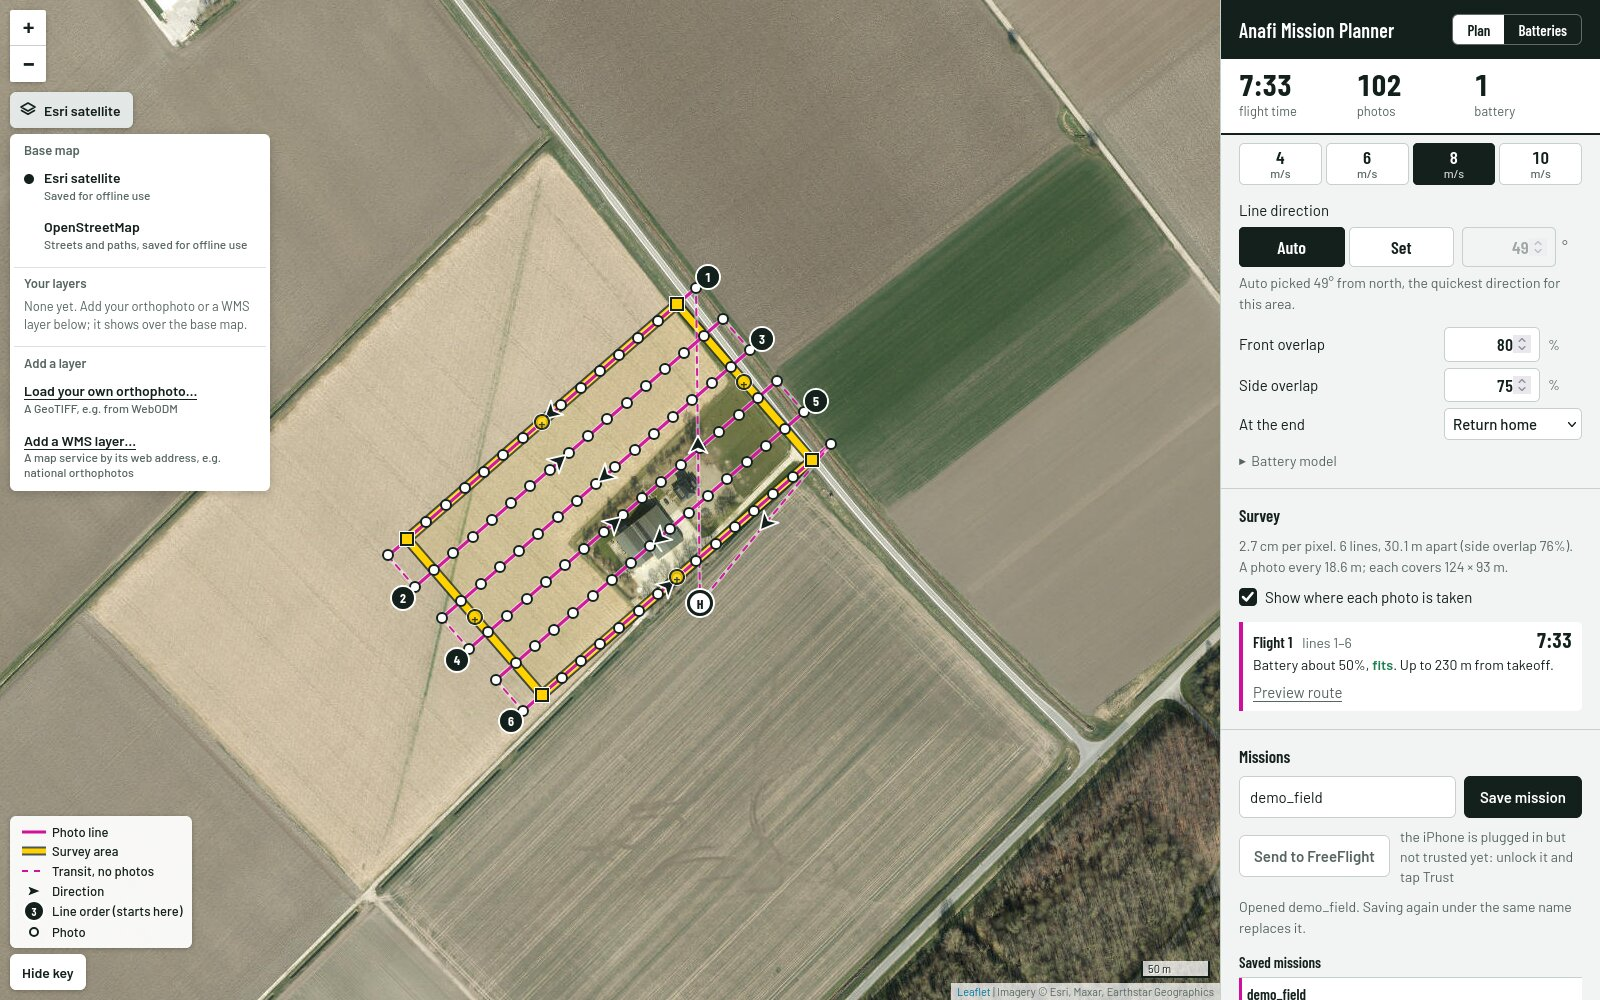
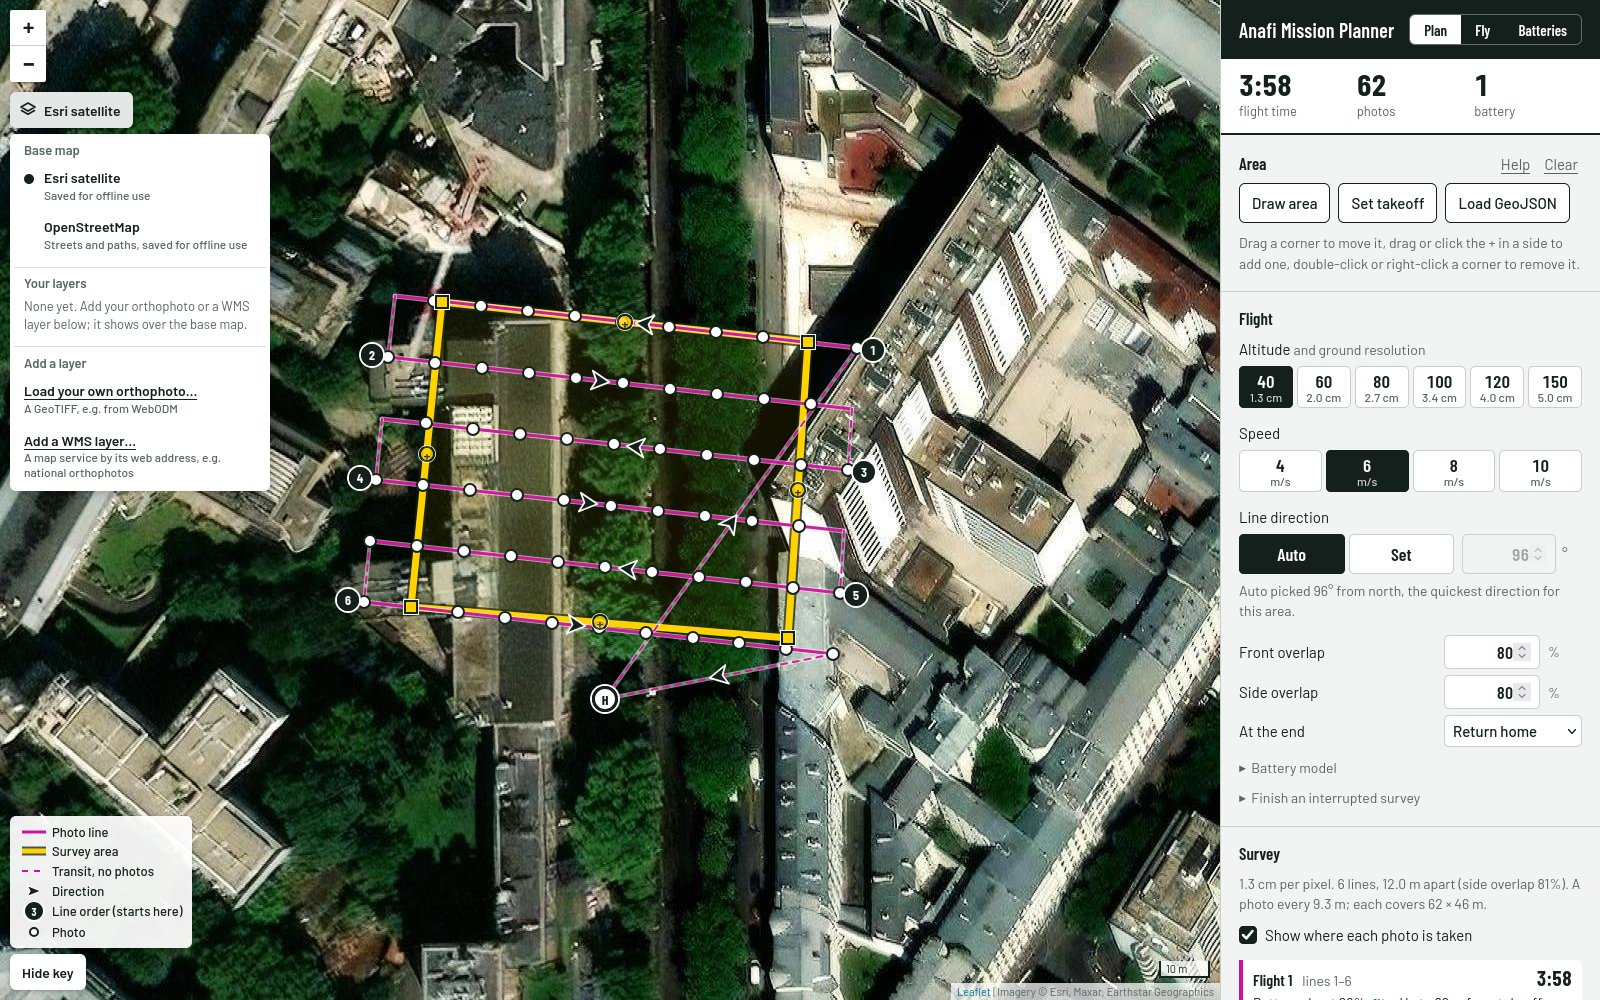
Fly tab instrument strip redesign; new screenshots at the simulator's lake
The strip crowded four columns into the 380 px panel: the battery's
status word ran into the altitude, and labels like "altitude, m" ran
into each other. The battery now has its own row (number, meter with the
takeoff minimum, status word underneath), and altitude, speed and
distance home sit below it, each value with its unit and a one-word
label.

Screenshots retaken in the simulator's world (lake_survey): Plan, map
layers, Missions, and two new ones of the Fly tab (ready, in flight with
the live camera). The drone-link chips now show the link in use after a
page reload.

diff --git a/ui/static/style.css b/ui/static/style.css
@@ -540,29 +540,29 @@ table.runs { border-collapse: collapse; width: 100%; font-size: 14px; }
 .fly { display: flex; flex-direction: column; }
 .fly .panel-top { background: var(--surface); border-bottom: 2px solid var(--ink); }
 
-/* Instrument strip: the battery is a meter (it has a limit that matters), the rest are numbers. */
-.instruments {
-  display: grid; grid-template-columns: 1.45fr 1fr 1fr 1fr; gap: 10px; align-items: start;
-  padding: 12px 18px 8px;
-}
-.instruments .stat b { font-size: 28px; }
-.instruments small { display: block; white-space: nowrap; }
-.battery-meter small { color: var(--muted); font-size: 13px; }
-.meter-head { display: flex; align-items: baseline; gap: 6px; }
-.meter-head b { font: 700 28px/1 var(--cond); font-variant-numeric: tabular-nums; }
-.meter-word { font: 600 13px/1 var(--sans); color: var(--muted); white-space: nowrap; }
-.meter-word.is-ok { color: var(--ok); }
-.meter-word.is-tight { color: var(--tight); }
-.meter-word.is-low { color: var(--danger); }
-.meter-track {
-  position: relative; height: 8px; margin: 4px 0 2px; border-radius: 4px;
-  background: #E3E8E6; overflow: visible;
-}
+/* Instrument strip: the battery gets its own row (it has a limit that matters); the three
+   plain numbers sit below it, each with its unit, and a one-word label under it. */
+.instruments { padding: 12px 18px 10px; }
+.battery-meter { display: grid; grid-template-columns: auto 1fr; gap: 12px; align-items: center; }
+.battery-pct { font: 700 32px/1 var(--cond); font-variant-numeric: tabular-nums; min-width: 2.4em; }
+.meter-body { min-width: 0; }
+.meter-track { position: relative; height: 10px; border-radius: 5px; background: #E3E8E6; }
 .meter-fill { height: 100%; width: 0; border-radius: 5px; background: var(--muted); }
 .meter-fill.is-ok { background: var(--ok); }
 .meter-fill.is-tight { background: var(--tight); }
 .meter-fill.is-low { background: var(--danger); }
-.meter-min { position: absolute; top: -3px; bottom: -3px; width: 2px; background: var(--ink); box-shadow: 0 0 0 1px var(--surface); }
+.meter-min { position: absolute; top: -4px; bottom: -4px; width: 2px; background: var(--ink); box-shadow: 0 0 0 1px var(--surface); }
+.meter-word { display: block; margin-top: 5px; font: 600 13px/1.2 var(--sans); color: var(--muted); }
+.meter-word.is-ok { color: var(--ok); }
+.meter-word.is-tight { color: var(--tight); }
+.meter-word.is-low { color: var(--danger); }
+.gauges {
+  display: grid; grid-template-columns: repeat(3, 1fr); gap: 12px;
+  margin-top: 10px; padding-top: 9px; border-top: 1px solid var(--rule);
+}
+.fly-gauge b { display: block; font: 700 26px/1 var(--cond); font-variant-numeric: tabular-nums; white-space: nowrap; }
+.fly-gauge b small { margin-left: 3px; font: 600 15px/1 var(--cond); color: var(--muted); }
+.fly-gauge > span { display: block; margin-top: 3px; color: var(--muted); font-size: 13px; }
 
 .flight-line { padding: 0 18px 12px; }
 .fly-state { margin: 2px 0 8px; font: 600 17px/1.25 var(--cond); }

diff --git a/ui/static/fly.js b/ui/static/fly.js
@@ -245,10 +245,10 @@
 
   function batteryLevel(pct) {
     const min = st ? st.min_battery_pct : 30;
-    if (pct === null || pct === undefined) return { cls: "", word: "" };
-    if (pct < min) return { cls: "is-low", word: airborne() ? "Low: return home" : "Too low to take off" };
-    if (pct < min + 15) return { cls: "is-tight", word: "Getting low" };
-    return { cls: "is-ok", word: "Good" };
+    if (pct === null || pct === undefined) return { cls: "", word: "Battery" };
+    if (pct < min) return { cls: "is-low", word: airborne() ? "Low: return home" : `Too low to take off (minimum ${min}%)` };
+    if (pct < min + 15) return { cls: "is-tight", word: "Battery getting low" };
+    return { cls: "is-ok", word: "Battery good" };
   }
 
   // ---------- rendering ----------
@@ -315,6 +315,13 @@
     ls.textContent = { connected: `Connected to ${st && st.link.host}`, connecting: "Connecting…",
       lost: "Link lost", disconnected: "Not connected" }[link];
     ls.className = `link-state ${link === "connected" ? "is-on" : link === "lost" ? "is-lost" : ""}`;
+    // Connected (perhaps from an earlier page): show the link actually in use.
+    if (st && (link === "connected" || link === "connecting") && st.link.host) {
+      const kind = { "192.168.53.1": "skycontroller", "192.168.42.1": "wifi" }[st.link.host] || "other";
+      const radio = document.querySelector(`input[name="fly-link"][value="${kind}"]`);
+      if (radio && !radio.checked) radio.checked = true;
+      if (kind === "other" && document.activeElement !== byId("fly-host")) byId("fly-host").value = st.link.host;
+    }
     const other = document.querySelector('input[name="fly-link"]:checked').value === "other";
     document.querySelector(".fly-host").hidden = !other;
     byId("fly-connect").hidden = link === "connected" || link === "connecting";

diff --git a/ui/static/index.html b/ui/static/index.html
@@ -123,13 +123,17 @@
     </header>
     <div class="instruments" aria-live="off">
       <div class="battery-meter" id="fly-battery" role="meter" aria-label="Battery" aria-valuemin="0" aria-valuemax="100">
-        <div class="meter-head"><b id="fly-battery-pct">–</b><span id="fly-battery-word" class="meter-word"></span></div>
-        <div class="meter-track"><div class="meter-fill" id="fly-battery-fill"></div><div class="meter-min" id="fly-battery-min" title="Minimum to take off"></div></div>
-        <small>battery</small>
+        <b id="fly-battery-pct" class="battery-pct">–</b>
+        <div class="meter-body">
+          <div class="meter-track"><div class="meter-fill" id="fly-battery-fill"></div><div class="meter-min" id="fly-battery-min" title="Minimum to take off"></div></div>
+          <span id="fly-battery-word" class="meter-word">Battery</span>
+        </div>
       </div>
-      <div class="stat"><b id="fly-alt">–</b><small>altitude, m</small></div>
-      <div class="stat"><b id="fly-speed">–</b><small>speed, m/s</small></div>
-      <div class="stat"><b id="fly-home">–</b><small>to home, m</small></div>
+      <div class="gauges">
+        <div class="fly-gauge"><b><span id="fly-alt">–</span><small>m</small></b><span>altitude</span></div>
+        <div class="fly-gauge"><b><span id="fly-speed">–</span><small>m/s</small></b><span>speed</span></div>
+        <div class="fly-gauge"><b><span id="fly-home">–</span><small>m</small></b><span>to home</span></div>
+      </div>
     </div>
     <div class="flight-line">
       <div class="state-row">

diff --git a/README.md b/README.md
@@ -181,6 +181,10 @@ flight is held by `anafi-gui`, not the page: closing the browser
 doesn't touch it. If `anafi-gui` itself stops, the drone carries on or returns
 home by itself; the Skycontroller can always take over.
 
+![The Fly tab, ready: mission on the drone, every check passed, hold to take off](docs/images/fly_ready.jpg)
+
+![The Fly tab in flight: the drone and its track on the map, line progress, the live camera, Return home](docs/images/fly_flying.jpg)
+
 The same from a terminal:
 
 ```bash

diff --git a/docs/guide.md b/docs/guide.md
@@ -94,6 +94,8 @@ Fly a saved mission from the laptop (Olympe; x86_64 Linux). The page only
 shows and sends; `anafi-gui` holds the drone link, so closing or reloading the
 browser doesn't touch the flight.
 
+![The Fly tab in flight](images/fly_flying.jpg)
+
 1. **Drone link.** Skycontroller USB (the normal field setup: add the route
    `sudo ip route add 192.168.42.1/32 via 192.168.53.1` once per plug-in, for
    the upload), Drone Wi-Fi, or Other address (`10.202.0.1` for the
